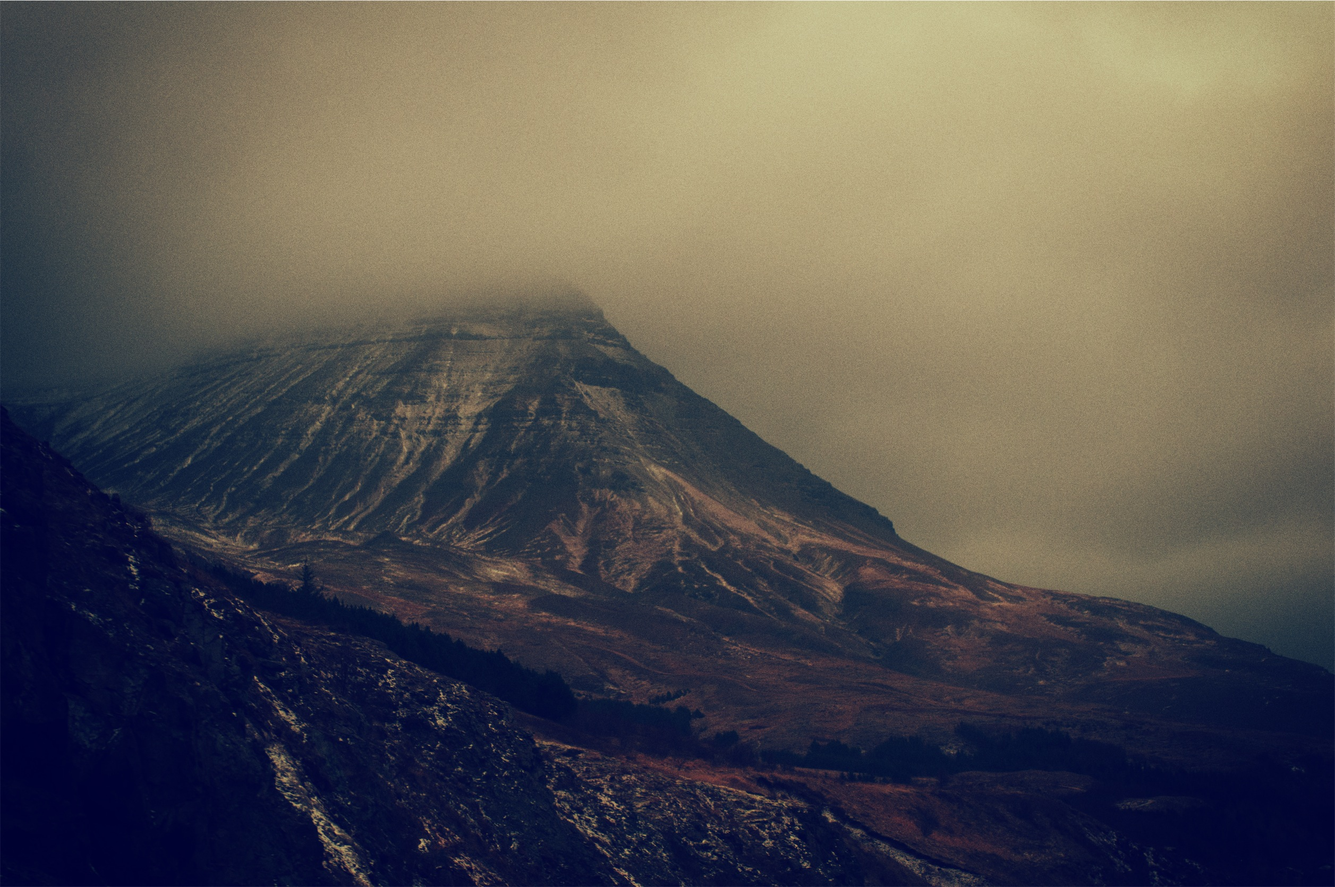
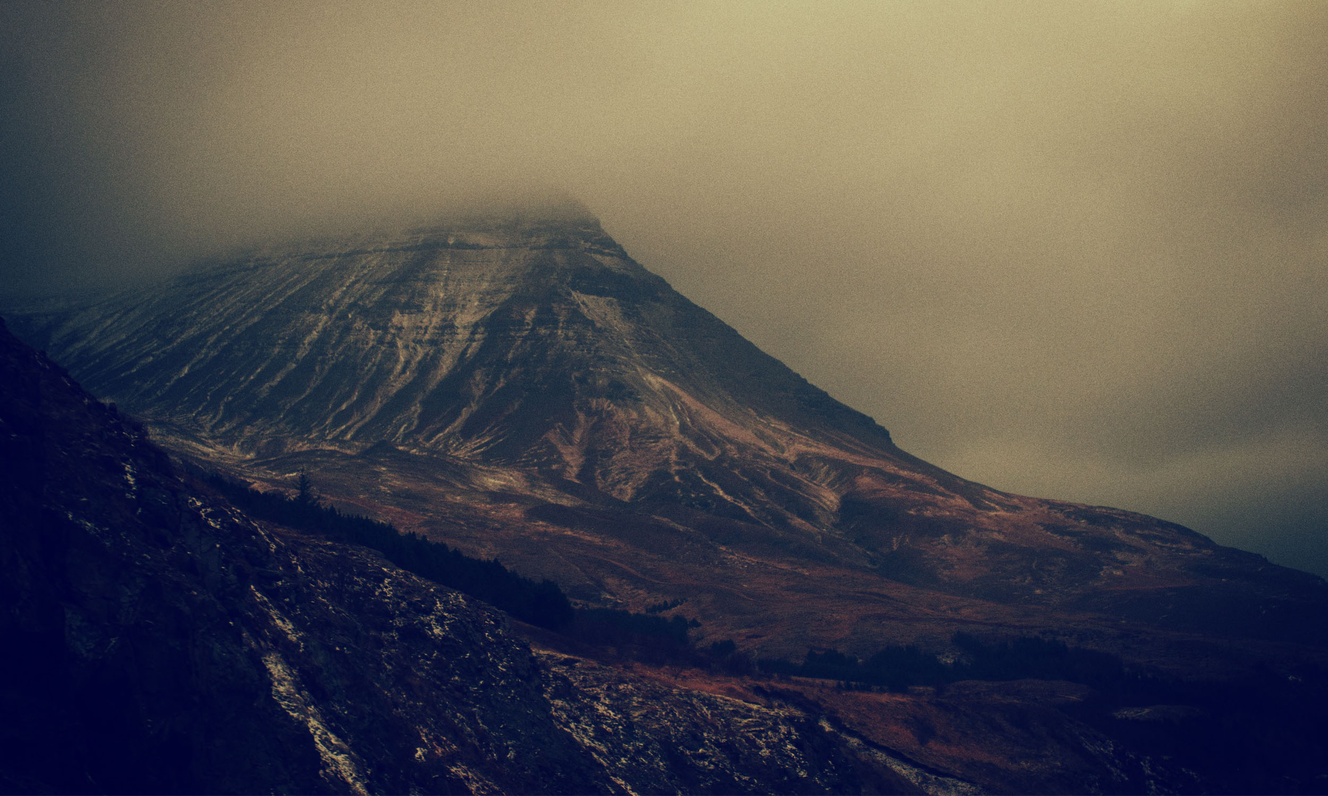
Working different resolutions on all mobile with orientation shifts.

diff --git a/pub/css/index.css b/pub/css/index.css
@@ -1,12 +1,17 @@
 html {
 	width: 100%;
+	min-width: 300px;
 	height: 100%;
+
+	overflow-y: hidden;
 
 	background-color: teal;
 }
 body {
 	width: 100%;
 	height: 100%;
+
+	overflow-y: hidden;
 }
 
 .noselect {
@@ -18,6 +23,10 @@ body {
     user-select: none;
 }
 
+
+/*
+	Backgrounds
+*/
 .full-photo {
 	position: absolute;
 	top: 0;
@@ -25,6 +34,10 @@ body {
 
 	width: 100%;
 	height: 100%;
+
+	background-size: auto auto;
+	background-repeat: no-repeat;
+	background-position: bottom -275px center;
 }
 .bg-news {
 	background-image: url("../img/bg/news-bg-photo.jpg");
@@ -39,6 +52,66 @@ body {
 	opacity: 0;
 }
 
+
+/*
+	Banner
+*/
+.banner {
+	width: 430px;
+	height: 255px;
+	margin: 40px auto 35px auto;
+	background-image: url("../img/fullname_banner.png");
+	background-size: 100% 100%;
+	display: block;
+}
+
+
+/*
+	Buttons
+*/
+.jr-group-btn {
+	width: 100%;
+	margin-bottom: 25px;
+	height: 45px;
+}
+.jr-btn {
+	float: left;
+	margin-left: 35px;
+	margin-right: 35px;
+	text-align: center;
+	padding: 10px 16px;
+	cursor: pointer;
+	width: 120px;
+	height: 45px;
+	font-size: 18px;
+	line-height: 1.33;
+	border: 1px solid white;
+	border-radius: 6px;
+	color: white;
+}
+.jr-btn:first-child {
+	margin: 0;
+}
+.jr-btn:last-child {
+	margin: 0;
+}
+.btn-news {
+	position: relative;
+	left: 0;
+}
+.btn-music {
+	position: relative;
+	left: 33%;
+}
+.btn-shows {
+	position: relative;
+	left: 66%;
+}
+
+
+/* 
+	Main content 
+*/
 .main-content {
 	margin-left: auto;
 	margin-right: auto;
@@ -49,64 +122,140 @@ body {
 
 	z-index: 1;
 }
+.jr-group-content {
+	width: 100%;
+	height: 40%;
 
-.banner {
-	padding-top: 30px;
-	padding-bottom: 50px;
+	overflow-y: scroll;
+	overflow-x: hidden;
+
+	background-color: teal;
+}
+.content-news {
+	height: 10000px;
 }
 
-.group-btn {
+
+/*
+	Footer
+*/
+.footer {
+	width: 100%;
+	height: 70px;
+	background-color: white;
+	position: absolute;
+	bottom: 0;
+	opacity: 0.85;
+	z-index: 1000;
+	padding: 10px 0 0 0;
+}
+.footer-content {
 	margin-left: auto;
 	margin-right: auto;
 
-	width:  100%;
+	width: 430px;
 	height: 100%;
-
-	text-align: center;
 }
+.soc-media {
+	width: 50%;
+	height: 50px;
 
-.jr-btn {
-	float: left;
-
-	margin-left: 35px;
-	margin-right: 35px;
-
-	text-align: center;
-	padding: 10px 16px;
-	cursor: pointer;
+	background-color: teal;
 	
-	width: 120px;
-
-	font-size: 18px;
-	line-height: 1.33;
-
-	border: 1px solid white;
-	border-radius: 6px;
-
-	color: white;
-}
-
-.jr-btn:first-child {
-	margin-left: 0;
-	margin-right: 0;
-}
-
-.jr-btn:last-child {
-	margin-left: 0;
-	margin-right: 0;
-}
-
-.btn-news {
 	position: relative;
-	left: 0;
+	bottom: 0;
+}
+.soc-row-1 {
+	height: 25px;
+	width: 100px;
+}
+.soc-row-2 {
+	height: 25px;
+	width: 100px;
+}
+.soc-media-out {
+	position: relative;
+	float: left;
+	width: 25px;
+	height: 25px;
+
+	background-color: black;
 }
 
-.btn-music {
-	position: relative;
-	left: 33%;
-}
 
-.btn-shows {
-	position: relative;
-	left: 66%;
+/* 
+	Screen size media queries 
+*/
+
+/* Width too small */
+@media screen and (max-width: 430px) {
+	/*
+		Banner
+	*/
+	.banner {
+		width: 300px;
+		height: 178px;
+	}
+	/*
+		Buttons
+	*/
+	.jr-group-btn {
+		margin-bottom: 10px;
+		height: 38px;
+	}
+	.jr-btn {
+		margin-right: 15px;
+		margin-left: 15px;
+		width: 90px;
+		height: 38px;
+		padding: 8px 10px;
+	}
+	.jr-btn:first-child {
+		margin: 0;
+	}
+	.jr-btn:last-child {
+		margin: 0;
+	}
+	/*
+		Main content
+	*/
+	.main-content {
+		width: 300px;
+	}
+	/*
+		Footer
+	*/
+	.footer-content {
+		width: 300px;
+	}
+}
+/* Height too small */
+@media screen and (max-height: 650px) {
+	.jr-group-content {
+		height: 60%;
+	}
+	.banner {
+		background-image: url("../img/fullname_banner_short.png");
+		height: 40px;
+		margin-top: 15px;
+	}
+}
+/* Height too small for small logo */
+@media screen and (max-height: 650px) and (max-width: 430px) {
+	.banner {
+		height: 28px;
+		margin-bottom: 15px;
+	}
+}
+/* Landscape orientation */
+@media screen and (orientation: landscape) and (max-height: 500px) {
+	.banner {
+		margin-bottom: 5px;
+	}
+	.jr-group-btn {
+		margin-bottom: 5px;
+	}
+	.footer {
+		display: none;
+	}
 }

diff --git a/index.html b/index.html
@@ -61,9 +61,7 @@
 	<div class="main-content">
 
 		<!-- Banner picture -->
-		<div class="banner">
-			<img width="430" src="pub/img/fullname_banner.png" />
-		</div>
+		<div class="banner"></div>
 
 		<!-- Button group -->
 		<div class="jr-group-btn noselect">
@@ -71,13 +69,47 @@
 			<div class="jr-btn" id="btn-music">MUSIC</div>
 			<div class="jr-btn" id="btn-shows">SHOWS</div>
 		</div>
+
+		<!-- Content group -->
+		<div class="jr-group-content">
+			
+			<!-- News content -->
+			<div class="content-news">
+
+			</div>
+
+			<!-- Music content -->
+			<div class="content-music">
+
+			</div>
+
+			<!-- Shows content -->
+			<div class="content-shows">
+
+			</div>
+
+		</div>
 		
 	</div>
 
-
-	<!-- Sticky footer bar at bottom of page -->
 	<div class="footer">
-
+		<!-- Footer Content -->
+		<div class="footer-content">
+			<div class="soc-media">
+				<div class="soc-row-1">
+					<div class="soc-media-out"></div>
+					<div class="soc-media-out"></div>
+					<div class="soc-media-out"></div>
+					<div class="soc-media-out"></div>
+				</div>
+				<div class="soc-row-2">
+					<div class="soc-media-out"></div>
+					<div class="soc-media-out"></div>
+					<div class="soc-media-out"></div>
+					<div class="soc-media-out"></div>
+				</div>
+			</div>
+		</div>
 	</div>
 
     <!-- jQuery (necessary for Bootstrap's JavaScript plugins) -->
